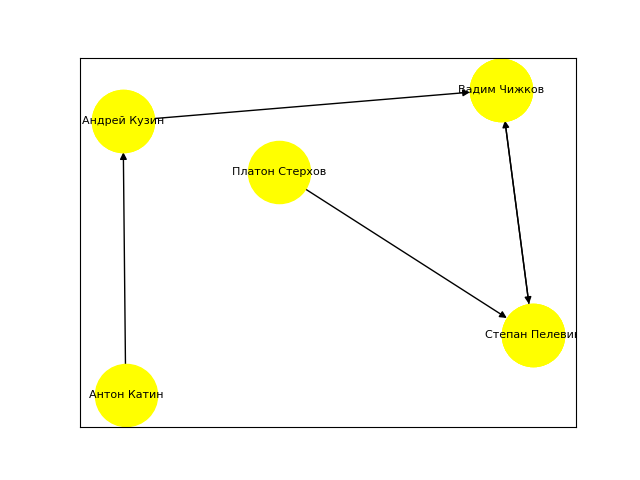
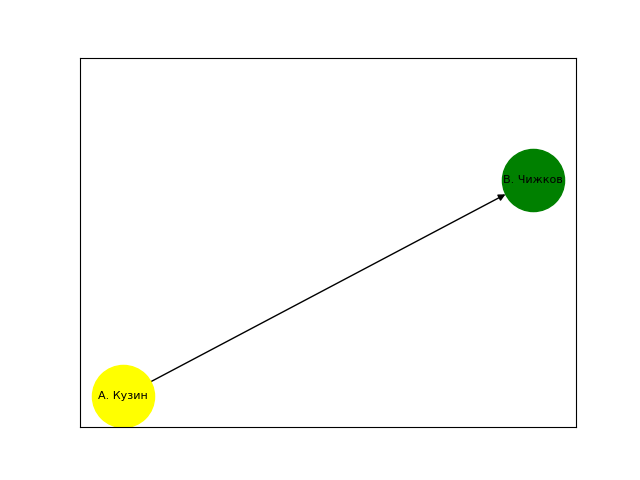
Тотальный login_required и всякая мелочь

diff --git a/app/templates/assessment_users.html b/app/templates/assessment_users.html
@@ -55,6 +55,8 @@
                         {% endfor %}
                 </table>
         <br><br>
+        <p>В процессе акетирования участников команды был проведен опрос для понимания энергии курсантов и ясности их позиции. Курсанты отвечали на определенные вопросы, выбирая кандидата из списка участников своей команды.
+            Слева представлены ответы участников команды в виде графа, где направление стрелки указывает, кто кого выбрал в определенном вопросе. Сам вопрос написан под графом, переключение между вопросами - по нажатию кнопок на слайдере</p>
                 <div class="vote_block2">
                     <table class="vote_table">
                             <tr><td><h4>{{criterions[1].name}}</h4></td></tr>
@@ -81,7 +83,8 @@
                         <label for="slider2_{{loop.index0}}"></label>
                         <div><img src="{{img['src']}}" onError="this.onerror=null;this.src='{{url_for('static', filename='images/no_graph.png')}}';"> <p>{{img['text']}}</p></div>
                     {% endfor %}
-                </div>
+                    </div>
+
                 </div>
             {% endif %}
             {% if axis.id == 2 %}

diff --git a/app/static/css/style.css b/app/static/css/style.css
@@ -376,6 +376,10 @@ font-family: 'Share Tech Mono', monospace;
     margin-bottom: 20px;
 }
 
+.tip{
+    margin-left: 5%;
+}
+
 /* Slider style */
     .slide {
         width: 500px;

diff --git a/app/routes.py b/app/routes.py
@@ -5,7 +5,7 @@ from app import app, db
 from app.scripts import graphs
 from app.models import User, Questions, QuestionnaireInfo, Questionnaire, Membership, UserStatuses, Statuses, Axis, \
     Criterion, Voting, VotingInfo
-from flask import render_template, redirect, url_for, request, jsonify
+from flask import render_template, redirect, url_for, request, jsonify, session
 from werkzeug.urls import url_parse
 from app.forms import LoginForm, SignupForm, QuestionnairePersonal, \
     QuestionnaireTeam, QuestionAdding, Teams, MemberAdding, TeamAdding
@@ -77,12 +77,9 @@ def signup():
 
 
 @app.route('/questionnaire_self', methods=['GET', 'POST'])
+@login_required
 def questionnaire_self():
-    if not current_user.is_authenticated:
-        return redirect('login')
-
     # Проверка на лимит голосования
-
     db_date = Questionnaire.query.filter_by(user_id=current_user.id, type=1).first()
 
     if db_date:
@@ -132,10 +129,8 @@ def questionnaire_self():
 
 
 @app.route('/questionnaire_team', methods=['GET', 'POST'])
+@login_required
 def questionnaire_team():
-    if not current_user.is_authenticated:
-        return redirect(url_for('login'))
-
     # Проверка на лимит голосования
 
     db_date = Questionnaire.query.filter_by(user_id=current_user.id, type=2).first()
@@ -200,10 +195,8 @@ def logout():
 
 
 @app.route('/question_adding', methods=['POST', 'GET'])
+@login_required
 def question_adding():
-    if not current_user.is_authenticated:
-        return redirect(url_for('login'))
-
     if not User.check_admin(current_user.id):
         return render_template('gryazniy_vzlomshik.html',
                                responsibilities=User.dict_of_responsibilities(current_user.id),
@@ -225,10 +218,8 @@ def question_adding():
 
 # Решить трабл с отображением атаманов, админов и тимлидов в общем отображении участвующих в личных анкетах
 @app.route('/questionnaire_progress', methods=['POST', 'GET'])
+@login_required
 def questionnaire_progress():
-    if not current_user.is_authenticated:
-        return redirect(url_for('login'))
-
     if not User.check_admin(current_user.id):
         return render_template('gryazniy_vzlomshik.html',
                                responsibilities=User.dict_of_responsibilities(current_user.id),
@@ -327,10 +318,8 @@ def questionnaire_progress():
 
 
 @app.route('/users_list', methods=['POST', 'GET'])
+@login_required
 def users_list():
-    if not current_user.is_authenticated:
-        return redirect(url_for('login'))
-
     if not User.check_admin(current_user.id):
         return render_template('gryazniy_vzlomshik.html',
                                responsibilities=User.dict_of_responsibilities(current_user.id),
@@ -344,10 +333,8 @@ def users_list():
 
 
 @app.route('/delete_user', methods=['GET'])
+@login_required
 def delete_user():
-    if not current_user.is_authenticated:
-        return redirect(url_for('login'))
-
     if not User.check_admin(current_user.id):
         return render_template('gryazniy_vzlomshik.html',
                                responsibilities=User.dict_of_responsibilities(current_user.id),
@@ -371,10 +358,8 @@ def delete_user():
 
 
 @app.route('/teams_list', methods=['POST', 'GET'])
+@login_required
 def teams_list():
-    if not current_user.is_authenticated:
-        return redirect(url_for('login'))
-
     if not User.check_admin(current_user.id):
         return render_template('gryazniy_vzlomshik.html',
                                responsibilities=User.dict_of_responsibilities(current_user.id),
@@ -391,10 +376,8 @@ def teams_list():
 
 
 @app.route('/delete_team', methods=['GET'])
+@login_required
 def delete_team():
-    if not current_user.is_authenticated:
-        return redirect(url_for('login'))
-
     if not User.check_admin(current_user.id):
         return render_template('gryazniy_vzlomshik.html',
                                responsibilities=User.dict_of_responsibilities(current_user.id),
@@ -406,10 +389,8 @@ def delete_team():
 
 
 @app.route('/teams_crew', methods=['POST', 'GET'])
+@login_required
 def teams_crew():
-    if not current_user.is_authenticated:
-        return redirect(url_for('login'))
-
     if not User.check_admin(current_user.id):
         return render_template('gryazniy_vzlomshik.html',
                                responsibilities=User.dict_of_responsibilities(current_user.id),
@@ -425,10 +406,8 @@ def teams_crew():
 
 
 @app.route('/edit_team', methods=['GET', 'POST'])
+@login_required
 def edit_team():
-    if not current_user.is_authenticated:
-        return redirect(url_for('login'))
-
     if not User.check_admin(current_user.id):
         return render_template('gryazniy_vzlomshik.html',
                                responsibilities=User.dict_of_responsibilities(current_user.id),
@@ -459,10 +438,8 @@ def edit_team():
 
 
 @app.route('/delete_member', methods=['GET'])
+@login_required
 def delete_member():
-    if not current_user.is_authenticated:
-        return redirect(url_for('login'))
-
     if not User.check_admin(current_user.id):
         return render_template('gryazniy_vzlomshik.html',
                                responsibilities=User.dict_of_responsibilities(current_user.id),
@@ -477,10 +454,8 @@ def delete_member():
 
 
 @app.route('/assessment', methods=['GET', 'POST'])
+@login_required
 def assessment():
-    if not current_user.is_authenticated:
-        return redirect(url_for('login'))
-
     if not (User.check_tracker(current_user.id) or User.check_top_cadet(current_user.id)
             or User.check_expert(current_user.id) or User.check_chieftain(current_user.id)):
         return render_template('gryazniy_vzlomshik.html', title='Грязный багоюзер',
@@ -506,10 +481,8 @@ def assessment():
 
 
 @app.route('/assessment_axis', methods=['GET', 'POST'])
+@login_required
 def assessment_axis():
-    if not current_user.is_authenticated:
-        return redirect(url_for('login'))
-
     if not (User.check_tracker(current_user.id) or User.check_top_cadet(current_user.id)
             or User.check_expert(current_user.id) or User.check_chieftain(current_user.id)):
         return render_template('gryazniy_vzlomshik.html', title='Грязный багоюзер',
@@ -524,10 +497,8 @@ def assessment_axis():
 
 
 @app.route('/assessment_team', methods=['GET', 'POST'])
+@login_required
 def assessment_team():
-    if not current_user.is_authenticated:
-        return redirect(url_for('login'))
-
     if not (User.check_tracker(current_user.id) or User.check_top_cadet(current_user.id)
             or User.check_expert(current_user.id) or User.check_chieftain(current_user.id)):
         return render_template('gryazniy_vzlomshik.html', title='Грязный багоюзер',
@@ -558,10 +529,8 @@ def assessment_team():
 
 
 @app.route('/assessment_users', methods=['GET', 'POST'])
+@login_required
 def assessment_users():
-    if not current_user.is_authenticated:
-        return redirect(url_for('login'))
-
     if not (User.check_tracker(current_user.id) or User.check_top_cadet(current_user.id)
             or User.check_expert(current_user.id) or User.check_chieftain(current_user.id)):
         return render_template('gryazniy_vzlomshik.html', title='Грязный багоюзер',
@@ -677,10 +646,8 @@ def assessment_error():
 
 
 @app.route('/graphs_teams')
+@login_required
 def graphs_teams():
-    if not current_user.is_authenticated:
-        return redirect(url_for('login'))
-
     if not User.check_admin(current_user.id):
         return render_template('gryazniy_vzlomshik.html', title='Грязный багоюзер',
                                responsibilities=User.dict_of_responsibilities(current_user.id),
@@ -694,10 +661,8 @@ def graphs_teams():
 
 
 @app.route('/make_graphs')
+@login_required
 def make_graphs():
-    if not current_user.is_authenticated:
-        return redirect(url_for('login'))
-
     if not User.check_admin(current_user.id):
         return render_template('gryazniy_vzlomshik.html', title='Грязный багоюзер',
                                responsibilities=User.dict_of_responsibilities(current_user.id),

diff --git a/app/scripts/graphs.py b/app/scripts/graphs.py
@@ -105,7 +105,7 @@ class Forms:
         # проверяем наличие моды нод.
         if most_arrows != []:
             # визуализируем моду нод.
-            nx.draw_networkx_nodes(g, pos, nodelist=most_arrows, with_labels=True, node_size=2000, node_color="blue",
+            nx.draw_networkx_nodes(g, pos, nodelist=most_arrows, with_labels=True, node_size=2000, node_color="green",
                                    font_size=8, font_color="black", horizontalalignment="center")
         # визуализируем все остальные ноды.
         nx.draw_networkx_nodes(g, pos, nodelist=no_mode_nodes, with_labels=True, node_size=2000, node_color="yellow",
@@ -158,7 +158,7 @@ class Forms:
         # проверяем наличие моды нод.
         if most_arrows != []:
             # визуализируем моду нод.
-            nx.draw_networkx_nodes(g, pos, nodelist=most_arrows, with_labels=True, node_size=2000, node_color="blue",
+            nx.draw_networkx_nodes(g, pos, nodelist=most_arrows, with_labels=True, node_size=2000, node_color="green",
                                    font_size=8, font_color="black", horizontalalignment="center")
         # визуализируем все остальные ноды.
         nx.draw_networkx_nodes(g, pos, nodelist=no_mode_nodes, with_labels=True, node_size=2000, node_color="yellow",
@@ -211,7 +211,7 @@ class Forms:
         # проверяем наличие моды нод.
         if most_arrows != []:
             # визуализируем моду нод.
-            nx.draw_networkx_nodes(g, pos, nodelist=most_arrows, with_labels=True, node_size=2000, node_color="blue",
+            nx.draw_networkx_nodes(g, pos, nodelist=most_arrows, with_labels=True, node_size=2000, node_color="green",
                                    font_size=8, font_color="black", horizontalalignment="center")
         # визуализируем все остальные ноды.
         nx.draw_networkx_nodes(g, pos, nodelist=no_mode_nodes, with_labels=True, node_size=2000, node_color="yellow",
@@ -264,7 +264,7 @@ class Forms:
         # проверяем наличие моды нод.
         if most_arrows != []:
             # визуализируем моду нод.
-            nx.draw_networkx_nodes(g, pos, nodelist=most_arrows, with_labels=True, node_size=2000, node_color="blue",
+            nx.draw_networkx_nodes(g, pos, nodelist=most_arrows, with_labels=True, node_size=2000, node_color="green",
                                    font_size=8, font_color="black", horizontalalignment="center")
         # визуализируем все остальные ноды.
         nx.draw_networkx_nodes(g, pos, nodelist=no_mode_nodes, with_labels=True, node_size=2000, node_color="yellow",
@@ -317,7 +317,7 @@ class Forms:
         # проверяем наличие моды нод.
         if most_arrows != []:
             # визуализируем моду нод.
-            nx.draw_networkx_nodes(g, pos, nodelist=most_arrows, with_labels=True, node_size=2000, node_color="blue",
+            nx.draw_networkx_nodes(g, pos, nodelist=most_arrows, with_labels=True, node_size=2000, node_color="green",
                                    font_size=8, font_color="black", horizontalalignment="center")
         # визуализируем все остальные ноды.
         nx.draw_networkx_nodes(g, pos, nodelist=no_mode_nodes, with_labels=True, node_size=2000, node_color="yellow",

diff --git a/app/models.py b/app/models.py
@@ -86,7 +86,7 @@ class User(UserMixin, db.Model):
     @staticmethod
     def get_full_name(user_id):
         user = User.query.filter_by(id=user_id).first()
-        return user.name + ' ' + user.surname
+        return user.name[0] + '. ' + user.surname
 
     id = db.Column(db.Integer, primary_key=True)
     name = db.Column(db.String(64))

diff --git a/config.py b/config.py
@@ -1,8 +1,9 @@
+# -*- coding: utf-8 -*-
 import os
 
 
 class Config(object):
-    SECRET_KEY = os.environ.get('SECRET_KEY') or os.urandom(24)
+    SECRET_KEY = 'korpus_token_secret_key'
 
     SQLALCHEMY_DATABASE_URI = os.environ.get('DATABASE_URI')\
     or 'mysql+pymysql://korpus_user:korpus_password@localhost/korpus_db'

diff --git a/app/__init__.py b/app/__init__.py
@@ -7,10 +7,10 @@ from flask_login import LoginManager
 
 app = Flask(__name__)
 app.config.from_object(Config)
-login = LoginManager(app)
-login.login_view = 'login'
 db = SQLAlchemy(app)
 migrate = Migrate(app, db)
+login = LoginManager(app)
+login.login_view = 'login'
 
 
 from app import routes, models
